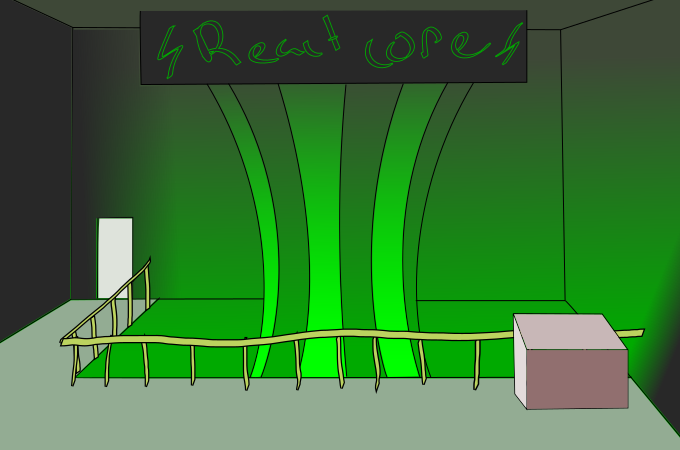
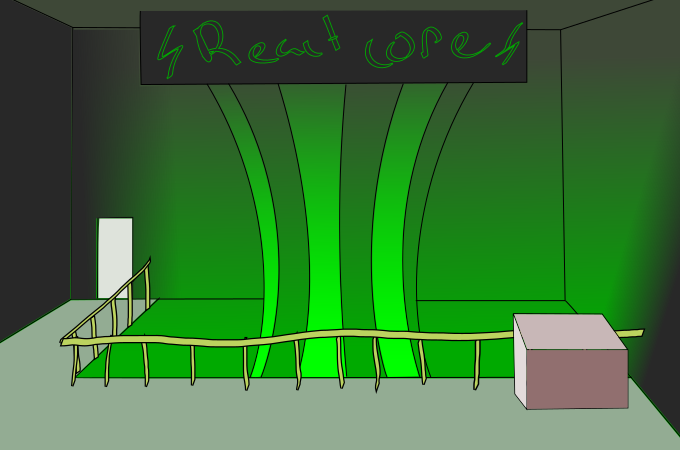
UI and inventory redone - some images changed

Changed region(s): [[0.8956, 0.3111, 1.0, 0.8711]]

diff --git a/public/main.css b/public/main.css
@@ -30,9 +30,9 @@
   color: white;
   z-index: 2;
   left: 50%;
-  margin-left: -160px;
-  top: 550px;
-  width: 360px;
+  margin-left: -395px;
+  top: 543px;
+  width: 380px;
 }
 
 #function {
@@ -40,18 +40,18 @@
   color: white;
   z-index: 2;
   left: 50%;
-  margin-left: -427px;
-  top: 523px;
+  margin-left: 253px;
+  top: 205px;
 }
 
   #inventory {
     position: absolute;
     z-index: 2;
     left: 50%;
-    margin-left: 258px;
-    top: 132px;
-    width: 194px;
-    height: 500px;
+    margin-left: 243px;
+    top: 321px;
+    width: 225px;
+    height: 318px;
   }
 
 /* backbutton */
@@ -59,7 +59,7 @@
   #backbtn{
     position: absolute;
     left: 50%;
-    margin-left: 258px;
+    margin-left: 91px;
     top: 540px;
     width: 85px;
     height: 75px;
@@ -69,7 +69,7 @@
 /* home page */
 
 body {
-  background-color: darkGrey;
+  background-color: #aca5a7;
 }
 
 .home-container {

diff --git a/client/components/game/items/Crowbar.js b/client/components/game/items/Crowbar.js
@@ -8,10 +8,10 @@ export default class Crowbar extends InventoryItem {
     this.msg = 'This is one cool looking crowbar wonder if I can use it?'
     this.invStyle =  {
       width: '79px',
-      height: '74px',
+      height: '79px',
       position: 'absolute',
-      top: '34%',
-      left: '53%',
+      top: '72%',
+      left: '57%',
       zIndex: 5
     }
   }

diff --git a/client/components/game/items/Skull.js b/client/components/game/items/Skull.js
@@ -17,11 +17,11 @@ export default class Skull extends InventoryItem {
       zIndex: 5
     }
     this.invStyle = {
-      width: '79px',
-      height: '73px',
+      width: '90px',
+      height: '90px',
       position: 'absolute',
-      top: '0.5%',
-      left: '3%',
+      top: '2%',
+      left: '3.5%',
       zIndex: 5
     }
   }

diff --git a/client/components/game/items/Bucket.js b/client/components/game/items/Bucket.js
@@ -19,11 +19,11 @@ export default class Bucket extends InventoryItem {
       zIndex: 5
     }
     this.invStyle =  {
-      width: '78px',
-      height: '72px',
+      width: '93px',
+      height: '96px',
       position: 'absolute',
       top: '0.5%',
-      left: '53%',
+      left: '53.5%',
       zIndex: 5
     }
   }

diff --git a/client/components/game/ui/Ui.jsx b/client/components/game/ui/Ui.jsx
@@ -29,7 +29,7 @@ class Ui extends React.Component {
   render () {
     return (
       <div className='ui-container'>
-        <img id='overlay' src='images/backgrounds/UI.png' />
+        <img id='overlay' src='images/backgrounds/UI-view1.png' />
         <Inventory />
         <FunctionCode />
         <BackButton />

diff --git a/client/components/game/items/Photo.js b/client/components/game/items/Photo.js
@@ -8,10 +8,10 @@ export default class Photo extends InventoryItem {
     this.name = 'Photo'
     this.invStyle = {
       width: '78px',
-      height: '75px',
+      height: '78px',
       position: 'absolute',
-      top: '34%',
-      left: '3%',
+      top: '72%',
+      left: '6%',
       zIndex: 5
     }
   }

diff --git a/client/components/game/items/Cookie.js b/client/components/game/items/Cookie.js
@@ -11,8 +11,8 @@ export default class Cookie extends InventoryItem {
       width: '85px',
       height: '65px',
       position: 'absolute',
-      top: '18%',
-      left: '51%',
+      top: '40%',
+      left: '55%',
       zIndex: 5
     }
   }

diff --git a/client/components/game/items/Password.js b/client/components/game/items/Password.js
@@ -13,8 +13,8 @@ export default class Password extends InventoryItem {
       width: '80px',
       height: '66px',
       position: 'absolute',
-      top: '18%',
-      left: '3%',
+      top: '39%',
+      left: '5%',
       zIndex: 5
     }
   }
